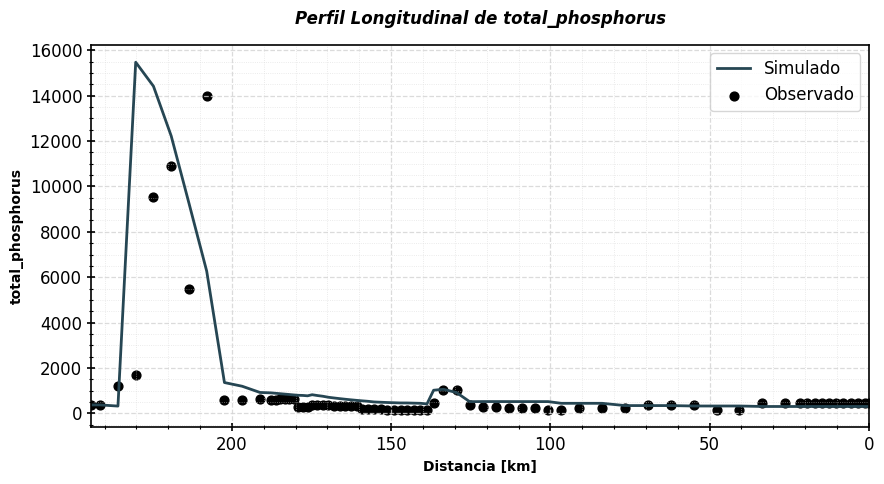
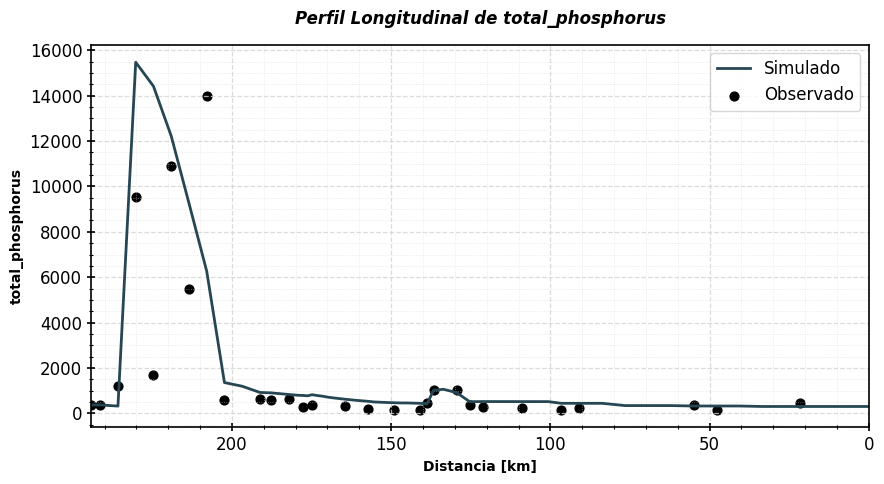
Se arregla el bug de los duplicados

diff --git a/qual2k/analysis/results_analyzer.py b/qual2k/analysis/results_analyzer.py
@@ -202,7 +202,9 @@ class Q2KResultsAnalyzer:
 
         # Merge final
         merged = pd.merge_asof(wq, temps, on='Distancia Longitudinal (km)', direction='nearest')
+        merged = merged.drop_duplicates(subset='Distancia Longitudinal (km)', keep='first')
         merged = pd.merge_asof(merged, hyd, on='Distancia Longitudinal (km)', direction='nearest')
+        merged = merged.drop_duplicates(subset='Distancia Longitudinal (km)', keep='first')
 
         return merged.sort_values('Distancia Longitudinal (km)', ascending=False).reset_index(drop=True)
 
@@ -250,20 +252,66 @@ class Q2KResultsAnalyzer:
     def combinar_modelados_observados(wq_model: pd.DataFrame,
                                       data_obs: pd.DataFrame) -> pd.DataFrame:
         """
-        Combina datos modelados y observados.
+        Combina datos modelados y observados con emparejamiento 1-a-1.
+        Cada observación se empareja con su valor modelado más cercano una sola vez.
 
         Args:
             wq_model: DataFrame con datos modelados
             data_obs: DataFrame con datos observados
 
         Returns:
-            DataFrame combinado
+            DataFrame combinado con todas las filas del modelo
         """
-        wq_model = wq_model.sort_values('Distancia Longitudinal (km)')
-        data_obs = data_obs.sort_values('Distancia Longitudinal (km)')
-        return pd.merge_asof(wq_model, data_obs,
-                             on='Distancia Longitudinal (km)',
-                             direction='nearest')
+        wq_model = wq_model.sort_values('Distancia Longitudinal (km)').reset_index(drop=True)
+        data_obs = data_obs.sort_values('Distancia Longitudinal (km)').reset_index(drop=True)
+
+        # Guardar copia del modelo para no modificarlo
+        modelo_temp = wq_model.copy()
+
+        # Lista para guardar los matches
+        matches = []
+
+        # Para cada observación, encontrar su modelo más cercano
+        for idx_obs, row_obs in data_obs.iterrows():
+            dist_obs = row_obs['Distancia Longitudinal (km)']
+
+            # Calcular distancias absolutas con los modelos restantes
+            distances = np.abs(modelo_temp['Distancia Longitudinal (km)'] - dist_obs)
+
+            # Encontrar el índice del más cercano
+            closest_idx = distances.idxmin()
+
+            # Guardar el match
+            match_info = {
+                'idx_modelo': closest_idx,
+                'dist_modelo': modelo_temp.loc[closest_idx, 'Distancia Longitudinal (km)']
+            }
+
+            # Agregar todas las columnas observadas
+            for col in data_obs.columns:
+                if col != 'Distancia Longitudinal (km)':
+                    match_info[col] = row_obs[col]
+
+            matches.append(match_info)
+
+            # Remover este índice para que no se vuelva a usar
+            modelo_temp = modelo_temp.drop(closest_idx)
+
+        # Crear DataFrame con los matches
+        df_matches = pd.DataFrame(matches)
+
+        # Merge con el modelo completo (left join para mantener todas las filas)
+        df_merge = wq_model.merge(
+            df_matches,
+            left_on='Distancia Longitudinal (km)',
+            right_on='dist_modelo',
+            how='left'
+        )
+
+        # Limpiar columnas auxiliares
+        df_merge = df_merge.drop(['idx_modelo', 'dist_modelo'], axis=1, errors='ignore')
+
+        return df_merge
 
     @staticmethod
     def calcular_kge_global(dataExp: pd.DataFrame,
@@ -280,6 +328,8 @@ class Q2KResultsAnalyzer:
         Returns:
             Tuple con (resultados_por_variable, kge_global)
         """
+
+        dataExp = dataExp.dropna()
         resultados = {}
         for sim_col, obs_col in pares:
             kge_val = metricas.kge(dataExp[obs_col], dataExp[sim_col])

diff --git a/tests/Sensibilidad_2.py b/tests/Sensibilidad_2.py
@@ -1,0 +1,75 @@
+from qual2k.core.model import Q2KModel
+from pathlib import Path
+# import matplotlib
+# matplotlib.use('Agg')
+import matplotlib.pyplot as plt
+import random
+
+import warnings
+warnings.filterwarnings('ignore')
+
+#Configuración
+base = Path(__file__).parent.parent
+filepath = f'{base}/data/templates/Chicamocha'
+header_dict = {
+    "version": "v2.12",
+    "rivname": "Chicamocha",
+    "filename": "Chicamocha",
+    "filedir": filepath,
+    "applabel": "Chicamocha (6/27/2012)",
+    "xmon": 6,
+    "xday": 27,
+    "xyear": 2012,
+    "timezonehour": -6,
+    "pco2": 0.000347,
+    "dtuser": 4.16666666666667E-03,
+    "tf": 5,
+    "IMeth": "Euler",
+    "IMethpH": "Brent"
+}
+
+nsims = 100
+for i in range(0,nsims):
+
+    if i == 0:
+        
+    model = Q2KModel(filepath, header_dict)
+    model.cargar_plantillas(filepath + '\\PlantillaBaseQ2K.xlsx')
+
+    n = len(model.data_reaches)
+    print(n)
+    reach_rates_custom = model.config.generar_reach_rates_custom(
+        n=n,
+        kaaa_list=[random.uniform(0.1, 2)] * n, # Tasa de aireación
+        khc_list=[None] * n, # Hidrólisis de carbono
+        kdcs_list=[None] * n, # Descomposición de carbono lento
+        kdc_list=[None] * n, # Descomposición de carbono rápido
+        khn_list=[None] * n, # Hidrólisis de nitrógeno
+        kn_list=[None] * n, # Nitrificación
+        ki_list=[None] * n, # Tasa de denitricación
+        khp_list=[None] * n, # Hidrólisis de fósforo
+        kdt_list=[None] * n # Detritos
+    )
+
+    model.configurar_modelo(reach_rates_custom=reach_rates_custom, q_cabecera= 1.06007E-06)
+    model.generar_archivo_q2k()
+    model.ejecutar_simulacion()
+    results = model.analizar_resultados(generar_graficas=False)
+    resultados, kge_global = model.calcular_metricas_calibracion()
+
+    df = results[['Distancia Longitudinal (km)','carbonaceous_bod_fast']]
+
+    x,y = df['Distancia Longitudinal (km)'], df['carbonaceous_bod_fast']
+    plt.figure(figsize=[15,6])
+    plt.plot(x,y, color = 'black', linewidth = 0.2, label = 'P1')
+    plt.gca().invert_xaxis()
+
+    plt.xlim(x.values[0], x.values[-1])
+
+    plt.ylabel('carbonaceous_bod_fast')
+    plt.xlabel('Distancia Longitudinal (km)')
+    plt.minorticks_on()
+    plt.grid(which='major', linestyle='-', linewidth=0.5, alpha=0.5, zorder=0)
+    plt.grid(which='minor', linestyle=':', linewidth=0.5, alpha=0.3, zorder=0)
+# plt.savefig(filepath + '/Sensibilidad_DBO.png', dpi=300)
+# plt.show()

diff --git a/tests/pruebas.py b/tests/pruebas.py
@@ -1,0 +1,13 @@
+
+reach_rates_custom = model.config.generar_reach_rates_custom(
+    n=n,
+    kaaa_list=[None] * n, # Tasa de aireación
+    khc_list=[None] * n, # Hidrólisis de carbono
+    kdcs_list=[None] * n, # Descomposición de carbono lento
+    kdc_list=[None] * n, # Descomposición de carbono rápido
+    khn_list=[None] * n, # Hidrólisis de nitrógeno
+    kn_list=[None] * n, # Nitrificación
+    ki_list=[None] * n, # Tasa de denitricación
+    khp_list=[None] * n, # Hidrólisis de fósforo
+    kdt_list=[None] * n # Detritos
+)
